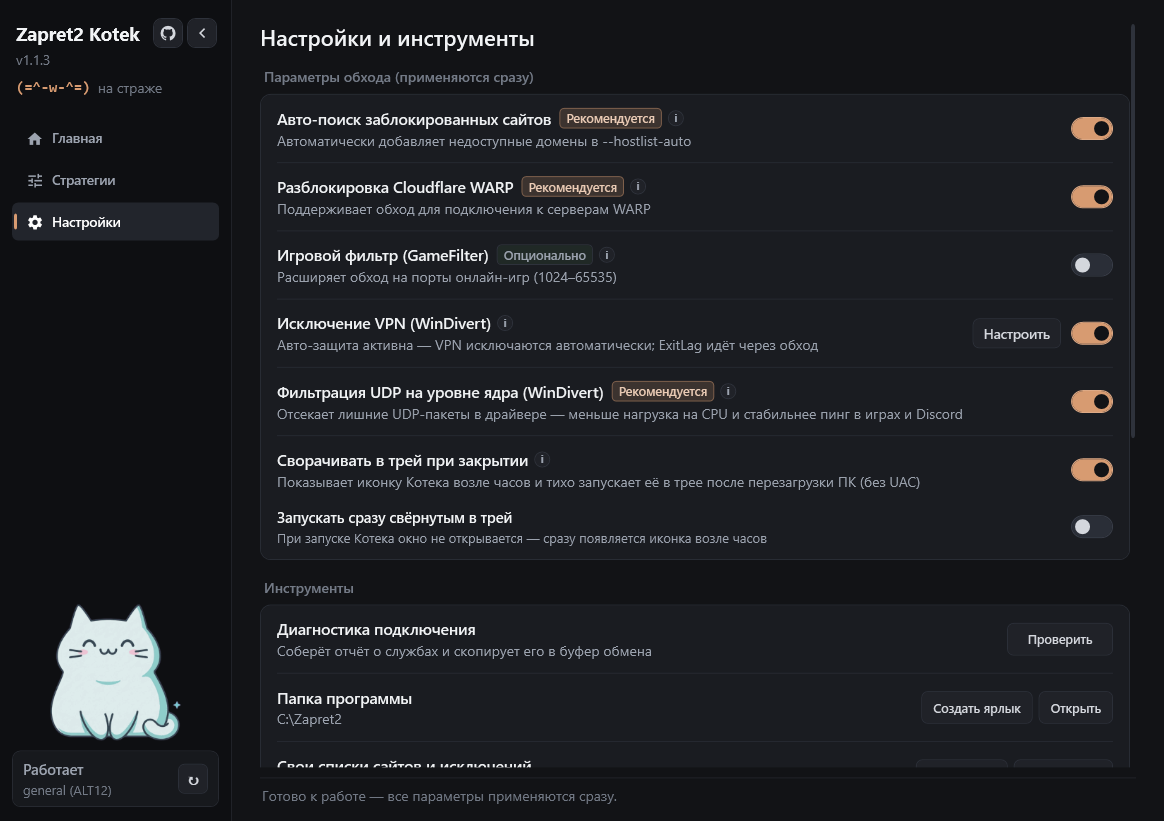
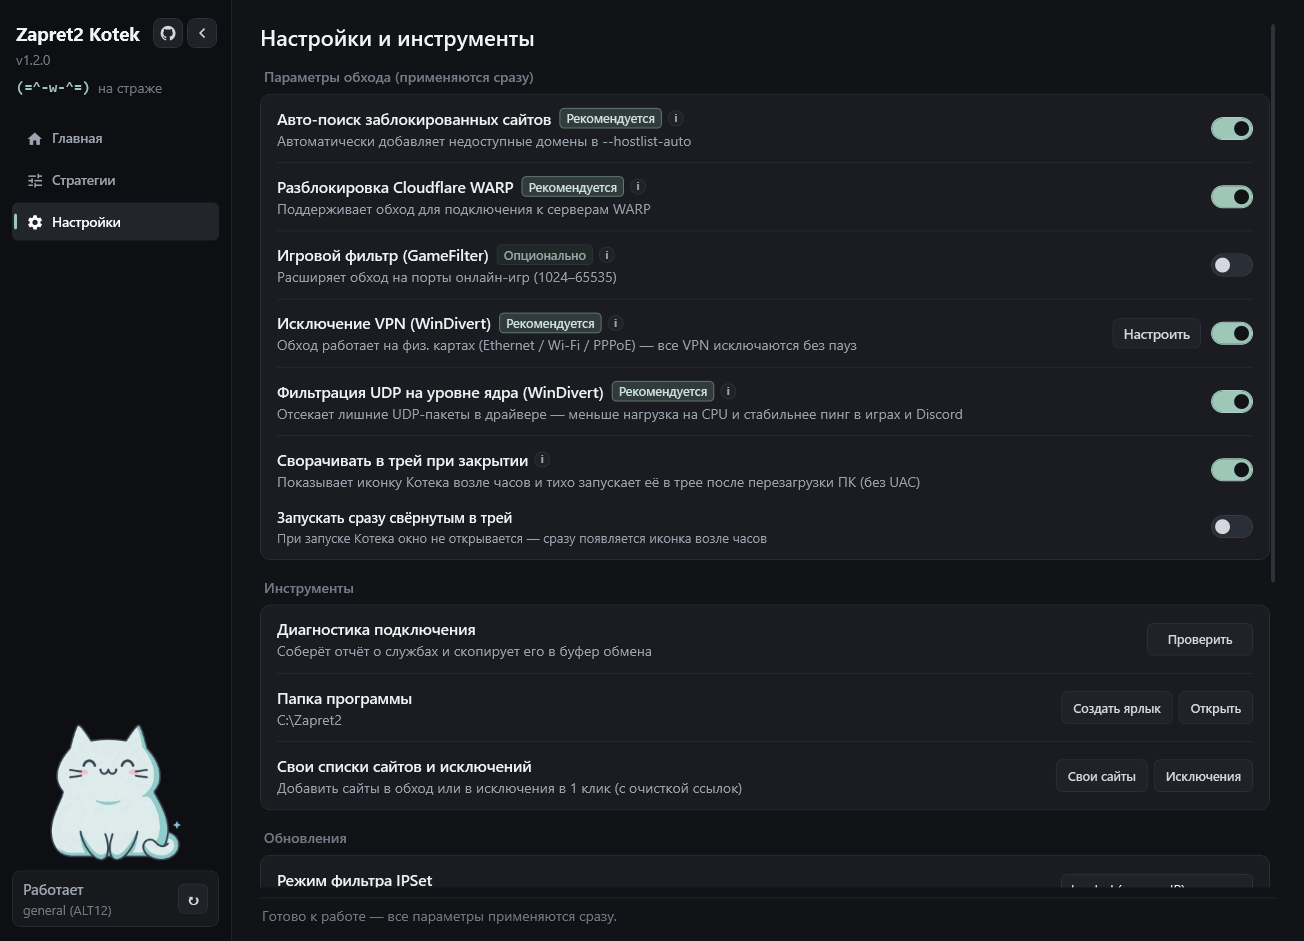
docs: update v1.2.0 screenshots, README, and release notes

diff --git a/README.md b/README.md
@@ -65,6 +65,12 @@
 <p align="center"><sub>Исключение VPN-адаптеров (WinDivert)</sub></p>
 </td>
 </tr>
+<tr>
+<td colspan="2" align="center">
+<img src="docs/screenshots/antigravity_dialog.png" width="620" alt="Мастер настройки Google Antigravity" />
+<p align="center"><sub>Мастер настройки и патчер Google Antigravity (Шаг 3)</sub></p>
+</td>
+</tr>
 </table>
 
 ## Что стоит учитывать
@@ -79,7 +85,7 @@
 
 - **Ядро:** `bin\winws2.exe` из [bol-van/zapret2](https://github.com/bol-van/zapret2) (1.0.7), Lua-скрипты (`lua\`) и ядерные фильтры `bin\filters\windivert_part.*`. Списки и `.bin`-фейки на базе [Flowseal/zapret-discord-youtube](https://github.com/Flowseal/zapret-discord-youtube) (1.10.4).
 - **Стратегии:** 12 активных нативных стратегий (`strategies\`) и 16 в архиве (`configs_archive\`), бенчмарк по 27 целям + 256-КБ проверка по `speed.cloudflare.com` и проверка объёма/скорости по YouTube, синтез гибрида (`utils\deep_optimize.ps1`) и 5-минутный пошаговый Конструктор с нуля (`utils\strategy_builder.ps1`).
-- **Telegram Proxy:** C# 5 сервис (`utils\TgWsProxyService.cs`, собирается системным `.NET 4.x csc.exe`), служба `zapret-tgws` под `NT AUTHORITY\NetworkService`, loopback `127.0.0.1:1443`, режимы `smart` / `direct` / `cfonly`, равноправная гонка `ws://:80` и `wss://:443`.
+- **Telegram Proxy:** C# 5 сервис (`utils\TgWsProxyService.cs`, собирается системным `.NET 4.x csc.exe`), служба `zapret-tgws` под `NT AUTHORITY\NetworkService`, loopback `127.0.0.1:1443`, режимы `cfonly` (по умолчанию) / `direct`, равноправная гонка `ws://:80` и `wss://:443`.
 - **Обход ИИ:** точечные правила Windows NRPT (`utils\ai_bypass_helper.ps1`) на пул SmartDNS (`lists\ai-dns-pool.txt`) с различением split-tunnel/full-tunnel VPN, исключением LAN/mesh-сетей и опциональной автопаузой при full-tunnel VPN.
 - **Автообновление:** `utils\self_update.ps1` с обязательной проверкой `SHA256SUMS.txt` (fail-closed), защитой от Zip-Slip, сохранением пользовательских списков (`*-user.txt`, `ai-custom-domains.txt`, `targets.txt`) и задачей Планировщика в простое ПК.
 - **CLI:** для работы без GUI поддерживается `!_START_KOTEK.bat --cli`.
